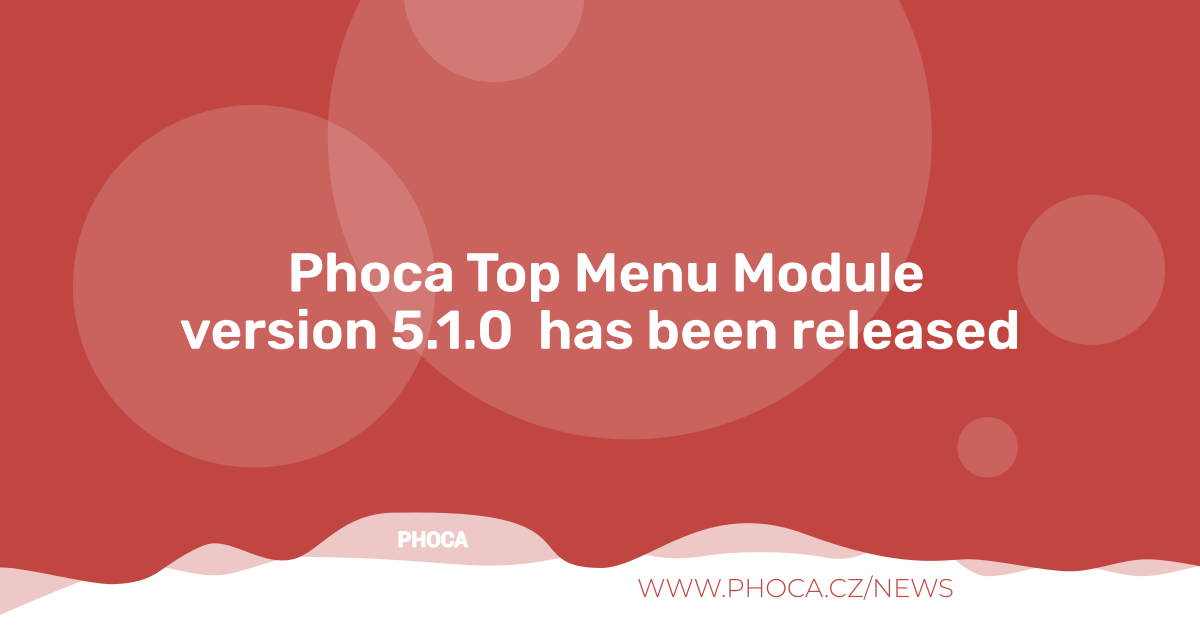
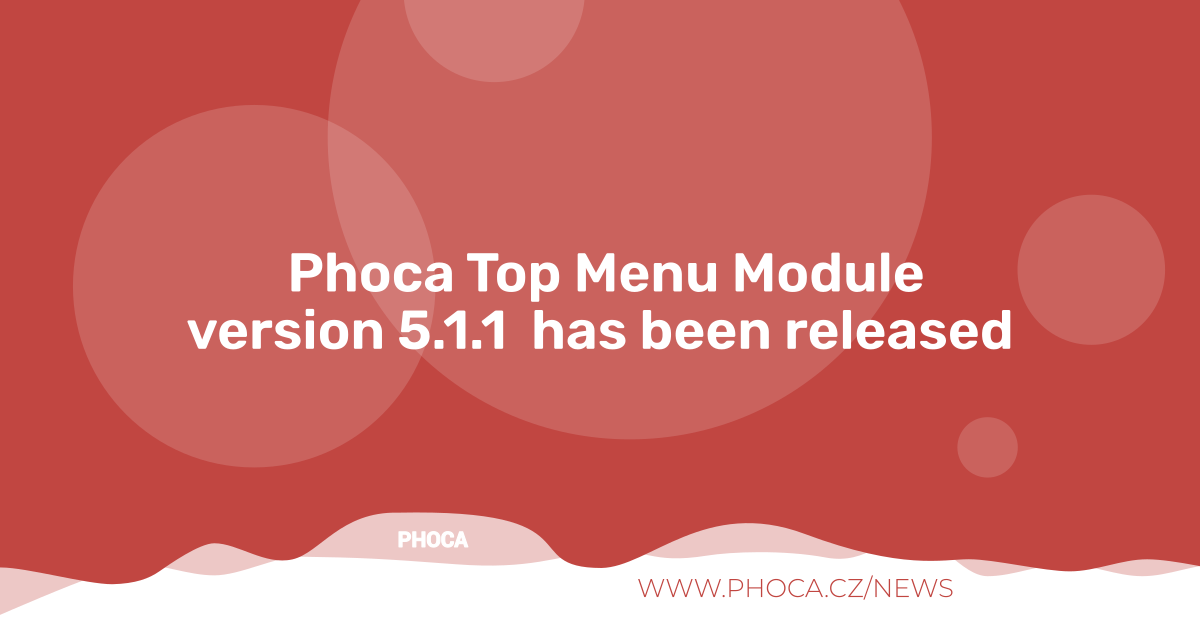
5.1.1

Changed region(s): [[0.1542, 0.4825, 0.8633, 0.573]]

diff --git a/mod_phocatopmenu.php b/mod_phocatopmenu.php
@@ -52,7 +52,7 @@ if ($sticky_navbar == 1) {
 }
 
 
-$enabled 		= !$app->input->getBool('hidemainmenu');
+$enabled 		= !$app->getInput()->input->getBool('hidemainmenu');
 $menu			= new CssPhocatopmenu($app);
 $root 			= $menu->load($params, $enabled);
 $root->level 	= 0;

diff --git a/README.MD b/README.MD
@@ -54,7 +54,7 @@ Phoca Top Menu Module - a Joomla! CMS module which displays horizontal top menu 
 
 ## Version (Joomla! 5.x)
 
-5.1.0
+5.1.1
 
 
 
